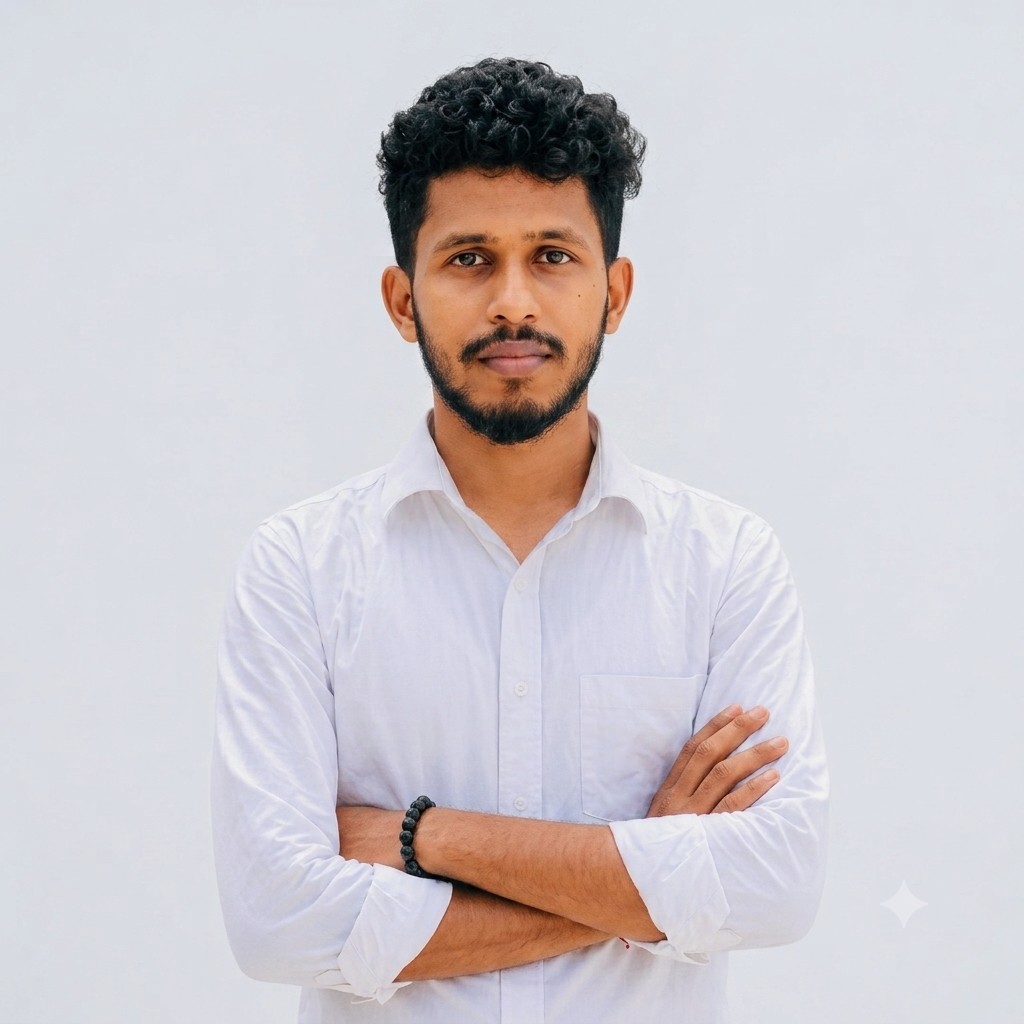
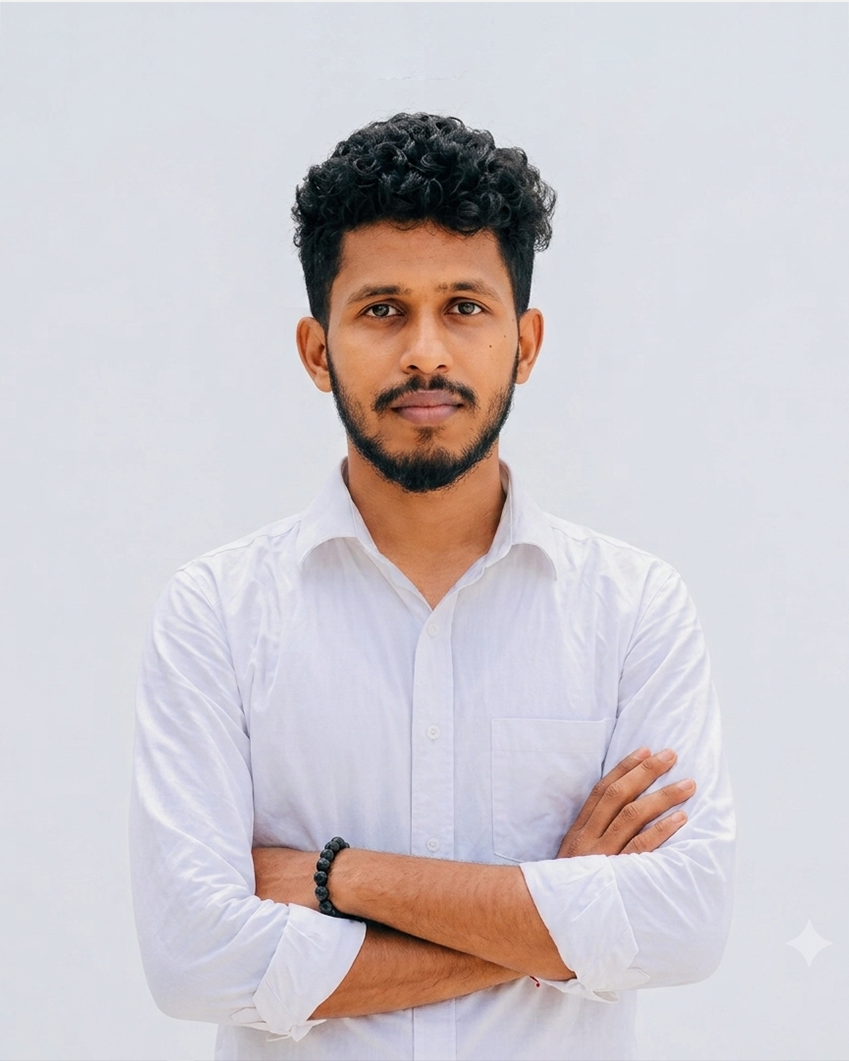
feat: Update TeamSection with new members and enhance layout; add images

diff --git a/components/about/TeamSection.tsx b/components/about/TeamSection.tsx
@@ -1,10 +1,14 @@
+"use client";
+
 import Image from "next/image";
+import { motion } from "framer-motion";
 import ServiceSectionHeader from "@/components/service/ServiceSectionHeader";
 
 type TeamMember = {
   name: string;
   role: string;
   photo?: string;
+  place?: string;
 };
 
 const team: TeamMember[] = [
@@ -12,19 +16,32 @@ const team: TeamMember[] = [
     name: "Bavaram Karunaaharan",
     role: "CEO and Co-Founder",
     photo: "/images/team/bavaram.png",
+    place:"Colombo, Sri Lanka"
   },
   {
     name: "Insaf Inhaam",
     role: "CTO and Co-Founder",
-    photo: "/images/team/Insaf .jpg",
+    photo: "/images/team/Insaf.png",
+    place:"Colombo, Sri Lanka"
   },
   {
     name: "Janith Viranga",
     role: "Software Engineer",
     photo: "/images/team/janith.png",
+    place:"Colombo, Sri Lanka"
   },
-  { name: "Aysha Shahani", role: "Software Engineer" },
-  { name: "Amrith Shylendra", role: "Sales Executive" },
+  {
+    name: "Aysha Shahani",
+    role: "Software Engineer",
+    photo: "/images/team/sampleGirl1.jpg",
+    place:"Kandy, Sri Lanka"
+  },
+  {
+    name: "Amrith Shylendra",
+    role: "Sales Executive",
+    photo: "/images/team/sampleBoy2.jpg",   
+    place:"Kandy, Sri Lanka"
+  },
 ];
 
 function getInitials(name: string) {
@@ -37,6 +54,7 @@ function getInitials(name: string) {
     .toUpperCase();
 }
 
+
 export default function TeamSection() {
   return (
     <div className="py-16">
@@ -46,10 +64,14 @@ export default function TeamSection() {
         intro="The people behind the strategy, the code, and the client relationships."
       />
       <div className="grid grid-cols-2 gap-6 sm:grid-cols-3 lg:grid-cols-5">
-        {team.map((member) => (
-          <div
+        {team.map((member, index) => (
+          <motion.div
             key={member.name}
-            className="group relative aspect-[3/4] overflow-hidden rounded-2xl bg-slate-200"
+            initial={{ opacity: 0, y: 16 }}
+            whileInView={{ opacity: 1, y: 0 }}
+            viewport={{ once: true, margin: "-40px" }}
+            transition={{ duration: 0.4, delay: index * 0.06 }}
+            className="group relative aspect-[3/4] overflow-hidden rounded-2xl bg-slate-200 shadow-sm transition-shadow duration-300 hover:shadow-lg"
           >
             {member.photo ? (
               <Image
@@ -57,7 +79,7 @@ export default function TeamSection() {
                 alt={member.name}
                 fill
                 sizes="(min-width: 1024px) 20vw, (min-width: 640px) 33vw, 50vw"
-                className="object-cover transition duration-500 group-hover:scale-105"
+                className="object-cover object-top transition-transform duration-300 group-hover:scale-105"
               />
             ) : (
               <div className="absolute inset-0 flex items-center justify-center bg-gradient-to-br from-slate-300 to-slate-400">
@@ -69,15 +91,20 @@ export default function TeamSection() {
 
             <div className="absolute inset-0 bg-gradient-to-t from-sky-950/85 via-sky-950/20 to-transparent" />
 
-            <div className="absolute inset-x-0 bottom-0 p-4">
-              <p className="text-sm font-bold leading-tight text-white sm:text-base">
+            <div className="absolute inset-x-0 bottom-0 space-y-1 p-4 sm:p-5">
+              <p className="truncate text-sm font-bold leading-snug text-white sm:text-base">
                 {member.name}
               </p>
-              <p className="text-xs leading-tight text-white/80 sm:text-sm">
+              <p className="text-xs leading-snug text-white/80 sm:text-sm">
                 {member.role}
               </p>
+              {member.place && (
+                <p className="text-xs leading-snug text-white/60">
+                  {member.place}
+                </p>
+              )}
             </div>
-          </div>
+          </motion.div>
         ))}
       </div>
     </div>
